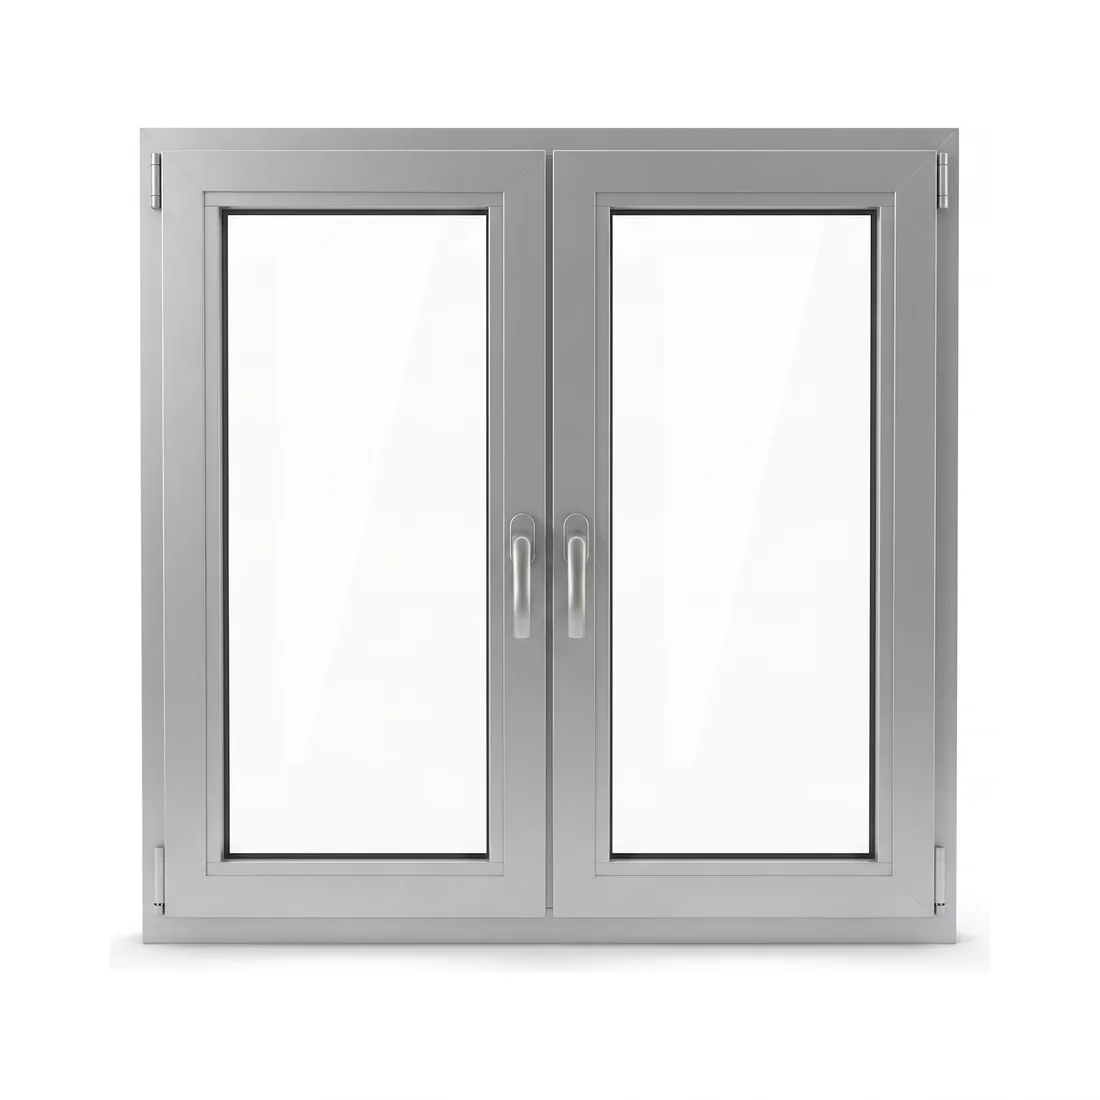
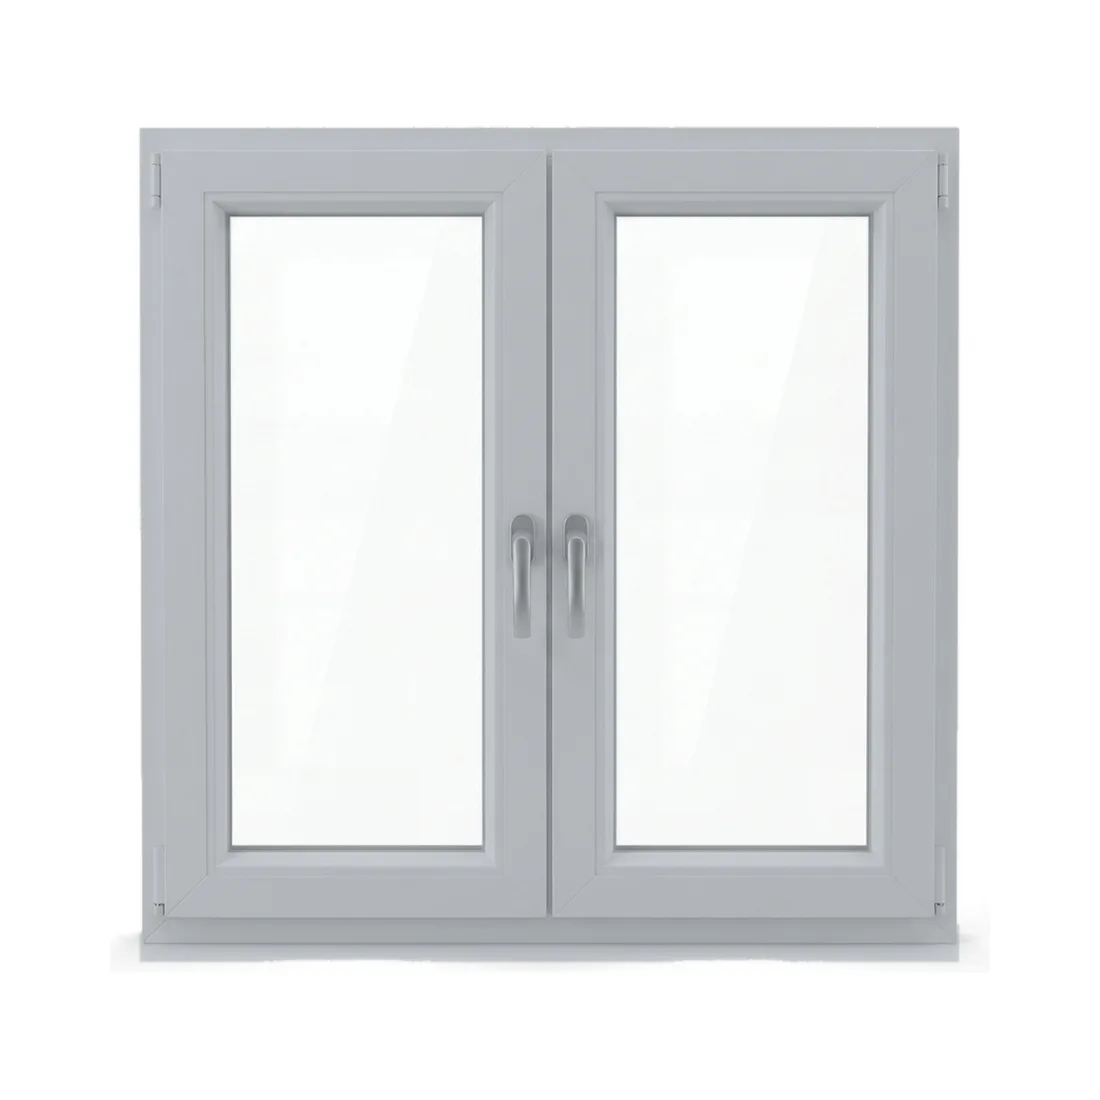
Aufteilungs- und Oeffnungskarten in Holz und Alu, umgefaerbt statt neu erzeugt
Die Karten muessen dieselbe Groesse, dieselben Proportionen und denselben Look haben
wie die weissen — nur eben braun. Neu erzeugte Fotos wichen in den Proportionen ab,
deshalb werden die vorhandenen Bilder umgefaerbt.

99 Bilder: 3 Aufteilungs- und 30 Oeffnungskarten, je in Kiefer, Meranti und Alu.
Toene nach den Produktrenders des Herstellers.

Drei Fallen dabei geloest:
- Der Schlagschatten haengt am Rahmen und ist genauso hell. Eine Erosion loescht die
  duenne weiche Fahne, der Rahmen bleibt; zusaetzlich Begrenzung auf die Rahmenbreite,
  weil der Schatten breiter auslaeuft. Sonst war der Schatten braun.
- Die Scheiben werden als RECHTECKE ausgenommen, nicht als zusammenhaengende Flaechen.
  Sonst blieben Reflexstreifen stehen und wurden mitgefaerbt.
- Die DIN-Linien liegen im Scheiben-Rechteck und sind dadurch geschuetzt; vorher
  faerbten sie sich braun mit.

Nur die WebP-Fassungen (2,8 MB statt 62 MB PNG); das lokale Skript erzeugt die
Zwischendateien jederzeit neu.
Preise unveraendert: tests/preis-nachpruefen.py BESTANDEN.

diff --git a/konfigurator.html b/konfigurator.html
@@ -2356,6 +2356,10 @@ function tokSash(tok){
 }
 
 function shade(hex,a){const n=parseInt(hex.slice(1),16);let r=(n>>16)+a,g=((n>>8)&255)+a,b=(n&255)+a;r=Math.max(0,Math.min(255,r));g=Math.max(0,Math.min(255,g));b=Math.max(0,Math.min(255,b));return '#'+(r<<16|g<<8|b).toString(16).padStart(6,'0');}
+/* Glasfarbe der Skizze. Sie richtet sich NICHT nach dem Rahmen: ein Holzfenster
+   soll dieselbe Scheibe zeigen wie dasselbe Fenster in Kunststoff. Nur bei den
+   dunklen Kunststoff-Folien bleibt die alte, abgestimmte Darstellung erhalten. */
+function glasHell(){ return !(typeof S!=='undefined' && S.prod==='fenster' && (S.material==='holz'||S.material==='alu')); }
 function isDarkCol(i){ const h=(COLORS_AKT()[i]&&COLORS_AKT()[i].c)||'#ffffff'; const n=parseInt(h.slice(1),16); const r=(n>>16)&255,g=(n>>8)&255,b=n&255; return (0.299*r+0.587*g+0.114*b) < 150; }
 // Rollladen-KASTEN wie in der Drutex-Zeichnung: Band mit feinen Lamellen-Linien, KEIN rundes Ding.
 // Motor = kleines Stecker-Symbol rechts oben. Gurt = dezente Marke.
@@ -2708,7 +2712,8 @@ function flatWindowSVG(isBalkon){
   const co=COLORS_AKT()[ci], dark=isDarkCol(ci), fCol=co.c;
   const line=dark?'#17181a':'#111';
   const frameStroke=line, miter=line;
-  const GLASS=dark?'#cdd3d5':'#d7e7f7', GLASSST=line, DIN=dark?'#5e6772':'#9ca8b4', DIMC='#1e242b', DIML='#565b61';
+  const _gd=dark&&glasHell();
+  const GLASS=_gd?'#cdd3d5':'#d7e7f7', GLASSST=line, DIN=_gd?'#5e6772':'#9ca8b4', DIMC='#1e242b', DIML='#565b61';
   const {sashes,stulpAt}=buildSashes(), nFl=sashes.length;
   const hasRoll=(S.roll&&S.roll!=='kein'), rollH=hasRoll?215:0;
   const alu=isBalkon&&S.balkonSchwelle==='alu', schwH=alu?60:0;
@@ -2955,7 +2960,8 @@ function haustuerStageSVG(){
   function ansicht(ox,aussen){
     const ci=aussen?S.outer:S.inner, co=COLORS_AKT()[ci], dark=isDarkCol(ci), fCol=co.c;
     const line=dark?'#17181a':'#111';
-    const GLASS=dark?'#cdd3d5':'#d7e7f7', DIN=dark?'#5e6772':'#9ca8b4';
+    const _gd=dark&&glasHell();
+    const GLASS=_gd?'#cdd3d5':'#d7e7f7', DIN=_gd?'#5e6772':'#9ca8b4';
     const hinge=aussen ? (dinLinks?'r':'l') : (dinLinks?'l':'r');   // außen spiegelbildlich zu innen
     const handleSide=(hinge==='r')?'l':'r';                          // Griff immer gegenüber dem Band
     const gehr=(x,y,w,h,fr)=>`<g stroke="${line}" stroke-width="${Math.max(uu*0.0018,1.4)}" stroke-linecap="round"><line x1="${x}" y1="${y}" x2="${x+fr}" y2="${y+fr}"/><line x1="${x+w}" y1="${y}" x2="${x+w-fr}" y2="${y+fr}"/><line x1="${x}" y1="${y+h}" x2="${x+fr}" y2="${y+h-fr}"/><line x1="${x+w}" y1="${y+h}" x2="${x+w-fr}" y2="${y+h-fr}"/></g>`;
@@ -4313,6 +4319,12 @@ function materialBild(m){
   return KARTE_PFAD+'iglo5-zentriert.webp?v=1';
 }
 function holzartBild(h){ return KARTE_PFAD+'softline68-'+h+'.webp?v=1'; }
+/* Standardton je Holzart. Ein Holzfenster in Weiss als Erstansicht ergibt keinen
+   Sinn — der Kunde waehlt Holz, um Holz zu sehen. Weiss bleibt waehlbar (der
+   Hersteller fuehrt es als Deckfarbe), es ist nur nicht mehr die Vorbelegung.
+   Index in COLORS_HOLZ_*: 1 = Eiche Hell, 4 = Mahagoni. */
+const HOLZ_STANDARDTON={kiefer:1, meranti:4};
+function holzTonDefault(){ return HOLZ_STANDARDTON[S.holzart||'kiefer']||1; }
 function profilDefault(m){ return (PROFILE_KAT[m]||PROFILE_KAT.kunststoff)[0].v; }
 /* Holzfenster fuehrt der Hersteller ohne Aufsatz-Rollladenkasten. Der Rollladen-Schritt
    faellt deshalb bei Holz komplett weg \u2014 sonst verkauft der Konfigurator ein Zubehoer,
@@ -4336,11 +4348,19 @@ function setMaterial(v){
   S.material=v;
   S.profile=profilDefault(v);            /* sonst zeigt der Profil-Schritt eine Wahl, die es im neuen Material nicht gibt */
   if(v!=='holz'){ S.holzart='kiefer'; } else { S.roll='kein'; S.panzer=null; S.endleiste=null; }
-  S.outer=0; S.inner=0;   /* Farbindex zeigt in die Liste des Materials — sonst falscher Ton */
+  /* Farbindex zeigt in die Liste des Materials — sonst falscher Ton. Bei Holz nicht
+     auf Weiss, sondern auf den typischen Ton der Holzart. */
+  S.outer=(v==='holz')?holzTonDefault():0; S.inner=S.outer;
   STEPS=stepsFor(); if(cur>=STEPS.length) cur=STEPS.length-1;
   render(); maybeAutoAdvance();
 }
-function setHolzart(v){ S.holzart=v; render(); maybeAutoAdvance(); }
+function setHolzart(v){
+  /* Holzart wechseln heisst anderes Holz — der Ton wird auf den typischen Ton der
+     neuen Holzart gesetzt. Kiefer und Meranti zeigen denselben Lasurton verschieden;
+     eine mitgeschleppte Wahl waere hier eher irrefuehrend als hilfreich. */
+  S.holzart=v; S.outer=holzTonDefault(); S.inner=S.outer;
+  render(); maybeAutoAdvance();
+}
 let STEPS=STEPS_FENSTER;
 // Überspringbare Extras: alles vorbelegt → Kunde kann mit einem Tap die Standards übernehmen und direkt zum Angebot
 const SKIP_KEYS=['motiv','schall','griff','sicherheit','rollladen','sprossen'];
@@ -5796,25 +5816,31 @@ function setSproDicke(v){ S.sproDicke=v; render(); }
 // Echtes Live-Foto je Öffnungs-Karte. Balkon hat eigene Bilder; Fenster 1-Flügel = anschlag-1f; Mehrflügel-Fenster = null (Mini-Skizze).
 function oeffCardImg(o){
   const of=o.oeff, stulp=(o.stulpAt>0);
+  /* Die Oeffnungskarte zeigt dasselbe Fenster wie der Schritt davor — in Holz oder
+     Alu, nicht in weissem Kunststoff. Die Ordner -kiefer/-meranti/-alu enthalten
+     dieselben Varianten mit denselben Dateinamen; erzeugt von
+     scripts/draw-anschlag-material.py (DIN-Symbole auf die Grundfotos gezeichnet). */
+  const _matOrd=(S.prod==='fenster'&&S.material==='holz') ? '-'+(S.holzart||'kiefer')
+               :(S.prod==='fenster'&&S.material==='alu')  ? '-alu' : '';
   if(S.prod==='balkon'){
     const m={'dk-l':'dk-links','dk-r':'dk-rechts','dreh-l':'dreh-links','dreh-r':'dreh-rechts'};
     if(of.length===1) return 'img/karten/balkon-anschlag-1f/'+(m[of[0]]||of[0])+'.webp';
     return 'img/karten/balkon-anschlag-2f/'+(of[0]==='dreh-l'?'dl-stulp-dkr':'dkl-stulp-dr')+'.webp';
   }
   // Fenster: echte WEISSE Wizard-Bilder wie online (img/karten/anschlag-1f/-2f/-3f), Zuordnung 1:1 wie ANSCHLAG_SETS
-  if(of.length===1) return 'img/karten/anschlag-1f/'+of[0]+'.webp';
+  if(of.length===1) return 'img/karten/anschlag-1f'+_matOrd+'/'+of[0]+'.webp';
   if(of.length===2){
     const a=of[0],b=of[1];
-    if(a==='fest'||b==='fest') return 'img/karten/anschlag-2f/'+(a==='fest'?'fest-dkr':'dkl-fest')+'.webp';
+    if(a==='fest'||b==='fest') return 'img/karten/anschlag-2f'+_matOrd+'/'+(a==='fest'?'fest-dkr':'dkl-fest')+'.webp';
     const type=stulp?'stulp':'pfosten';
     const m2={'dk-l|dk-r|pfosten':'dkl-pfosten-dkr','dreh-l|dk-r|stulp':'dl-stulp-dkr','dreh-l|dk-r|pfosten':'dl-pfosten-dkr','dk-l|dreh-r|stulp':'dkl-stulp-dr','dk-l|dreh-r|pfosten':'dkl-pfosten-dr'};
-    const f=m2[a+'|'+b+'|'+type]; return f?('img/karten/anschlag-2f/'+f+'.webp'):null;
+    const f=m2[a+'|'+b+'|'+type]; return f?('img/karten/anschlag-2f'+_matOrd+'/'+f+'.webp'):null;
   }
   if(of.length===3){
-    if(of[1]==='fest') return 'img/karten/anschlag-3f/dkl-fest-dkr.webp';
+    if(of[1]==='fest') return 'img/karten/anschlag-3f'+_matOrd+'/dkl-fest-dkr.webp';
     const mid=of[1]==='dreh-l'?'dl':'dr';
     const f = o.stulpAt===1?('dkl-stulp-'+mid+'-pf-dkr') : (o.stulpAt===2?('dkl-pf-'+mid+'-stulp-dkr') : ('dkl-pf-'+mid+'-pf-dkr'));
-    return 'img/karten/anschlag-3f/'+f+'.webp';
+    return 'img/karten/anschlag-3f'+_matOrd+'/'+f+'.webp';
   }
   return null;
 }
